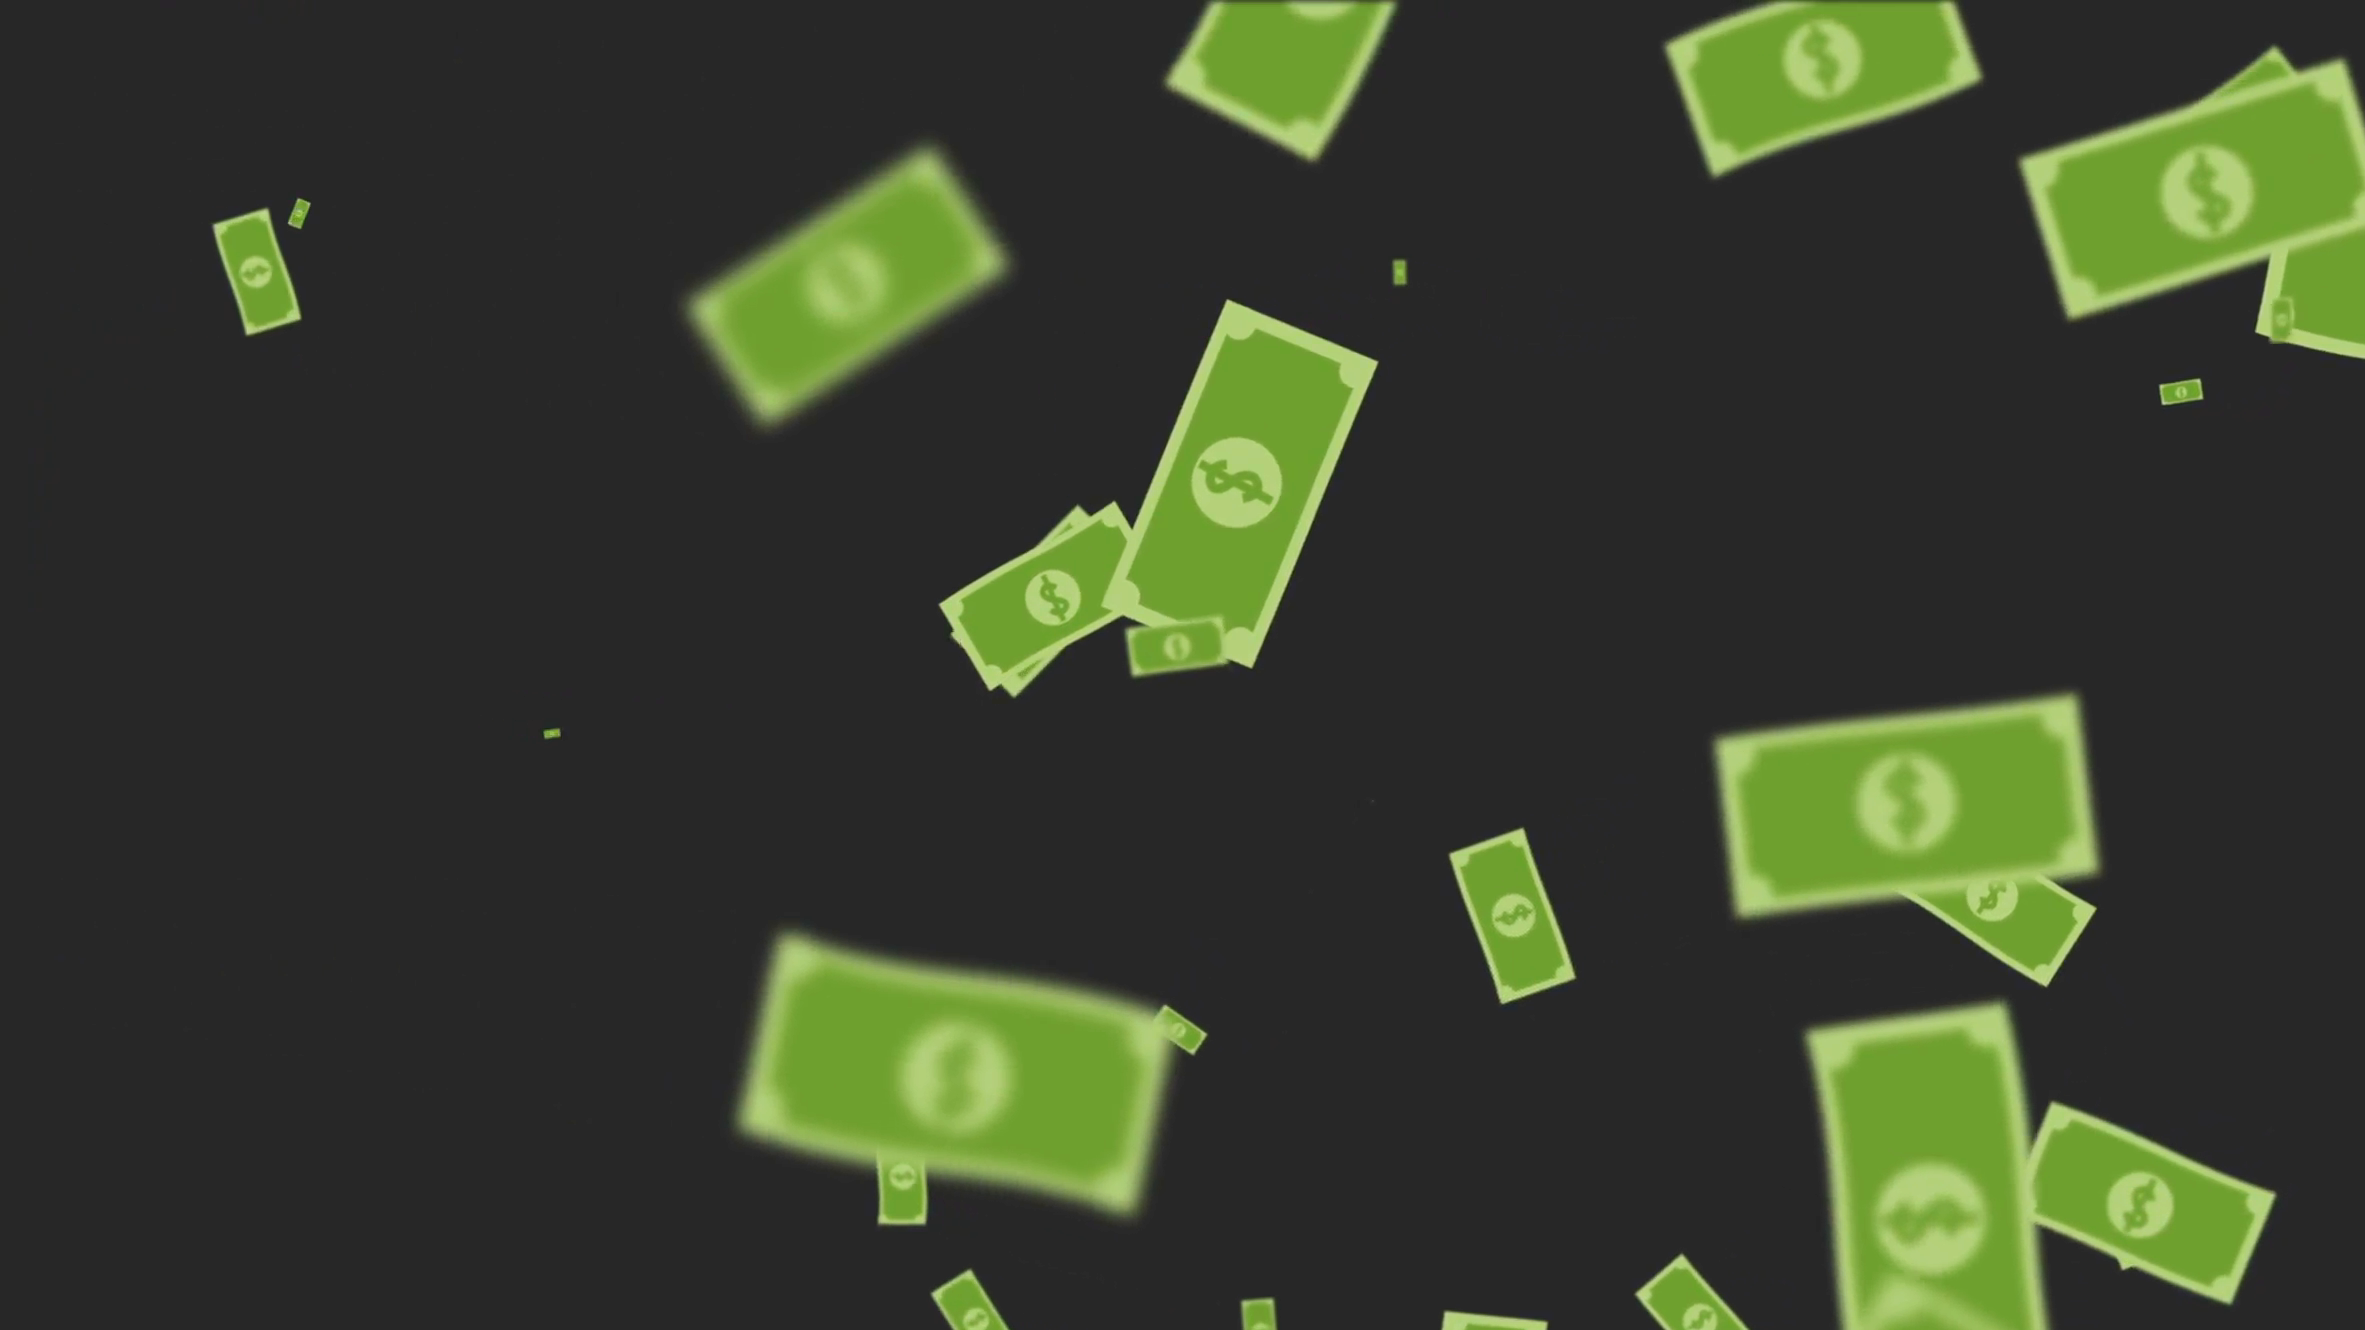
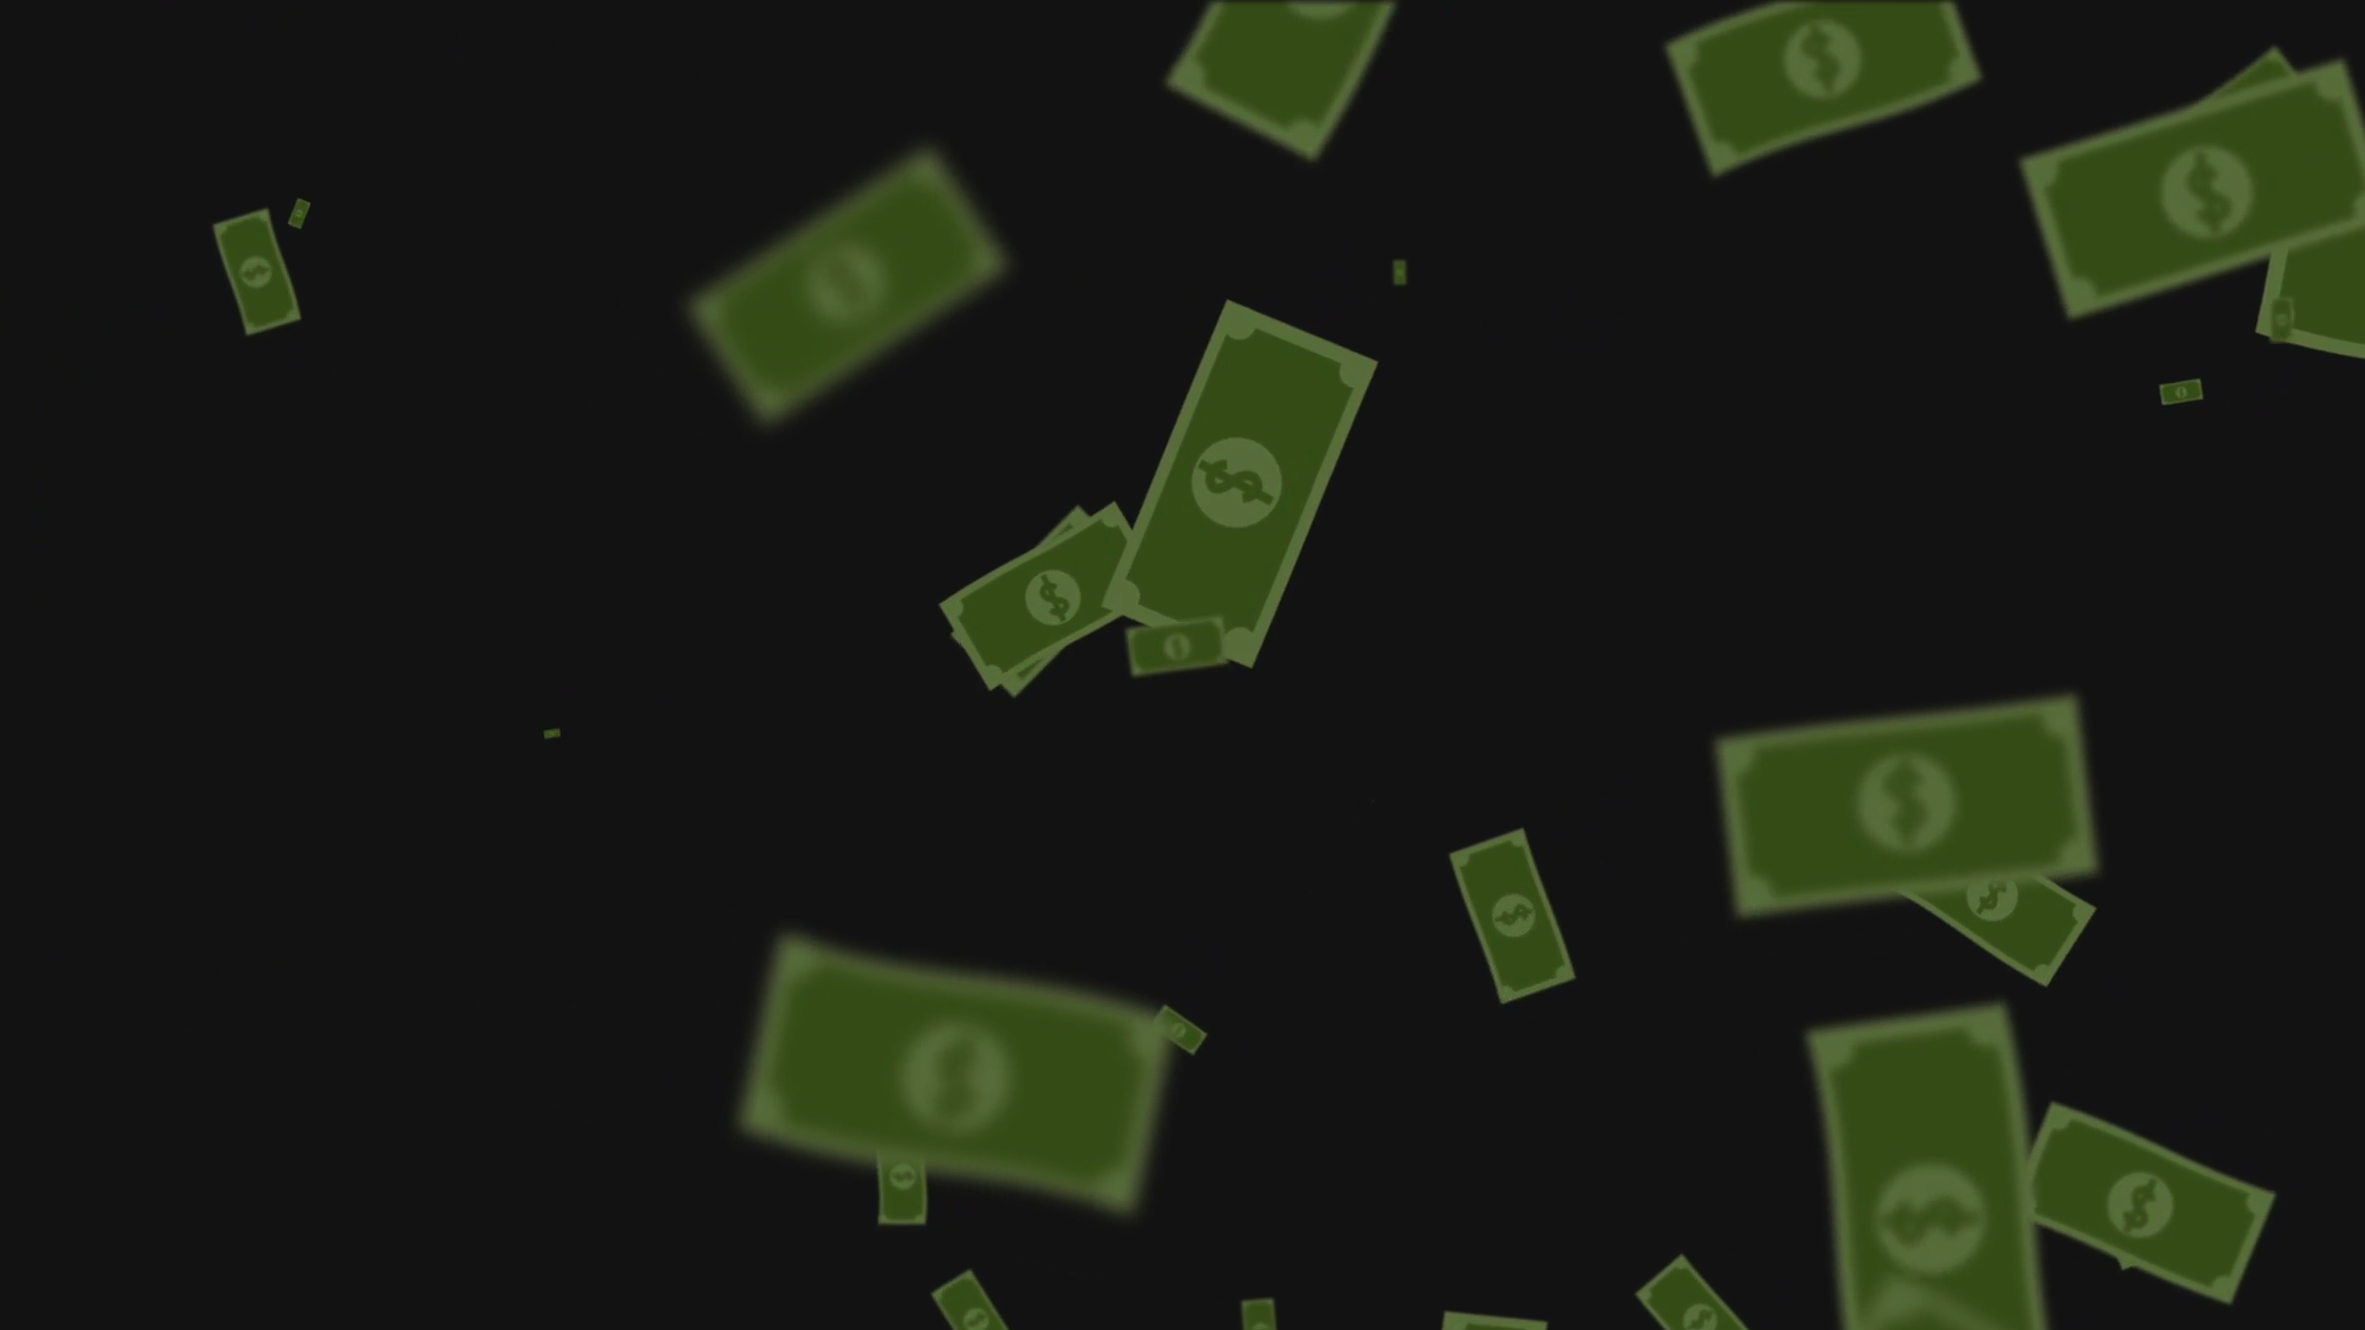
update

diff --git a/css/style.css b/css/style.css
@@ -106,7 +106,7 @@ justify-content: space-between;
 .how-to-win {
   height: 400px;
   width: 100%;
-  background-image: url('../rs/moneypat3.png');
+  background-image: url('../rs/moneypat4.png');
   background-position: 50% 50%;
   background-size: cover;
   background-repeat: no-repeat;
